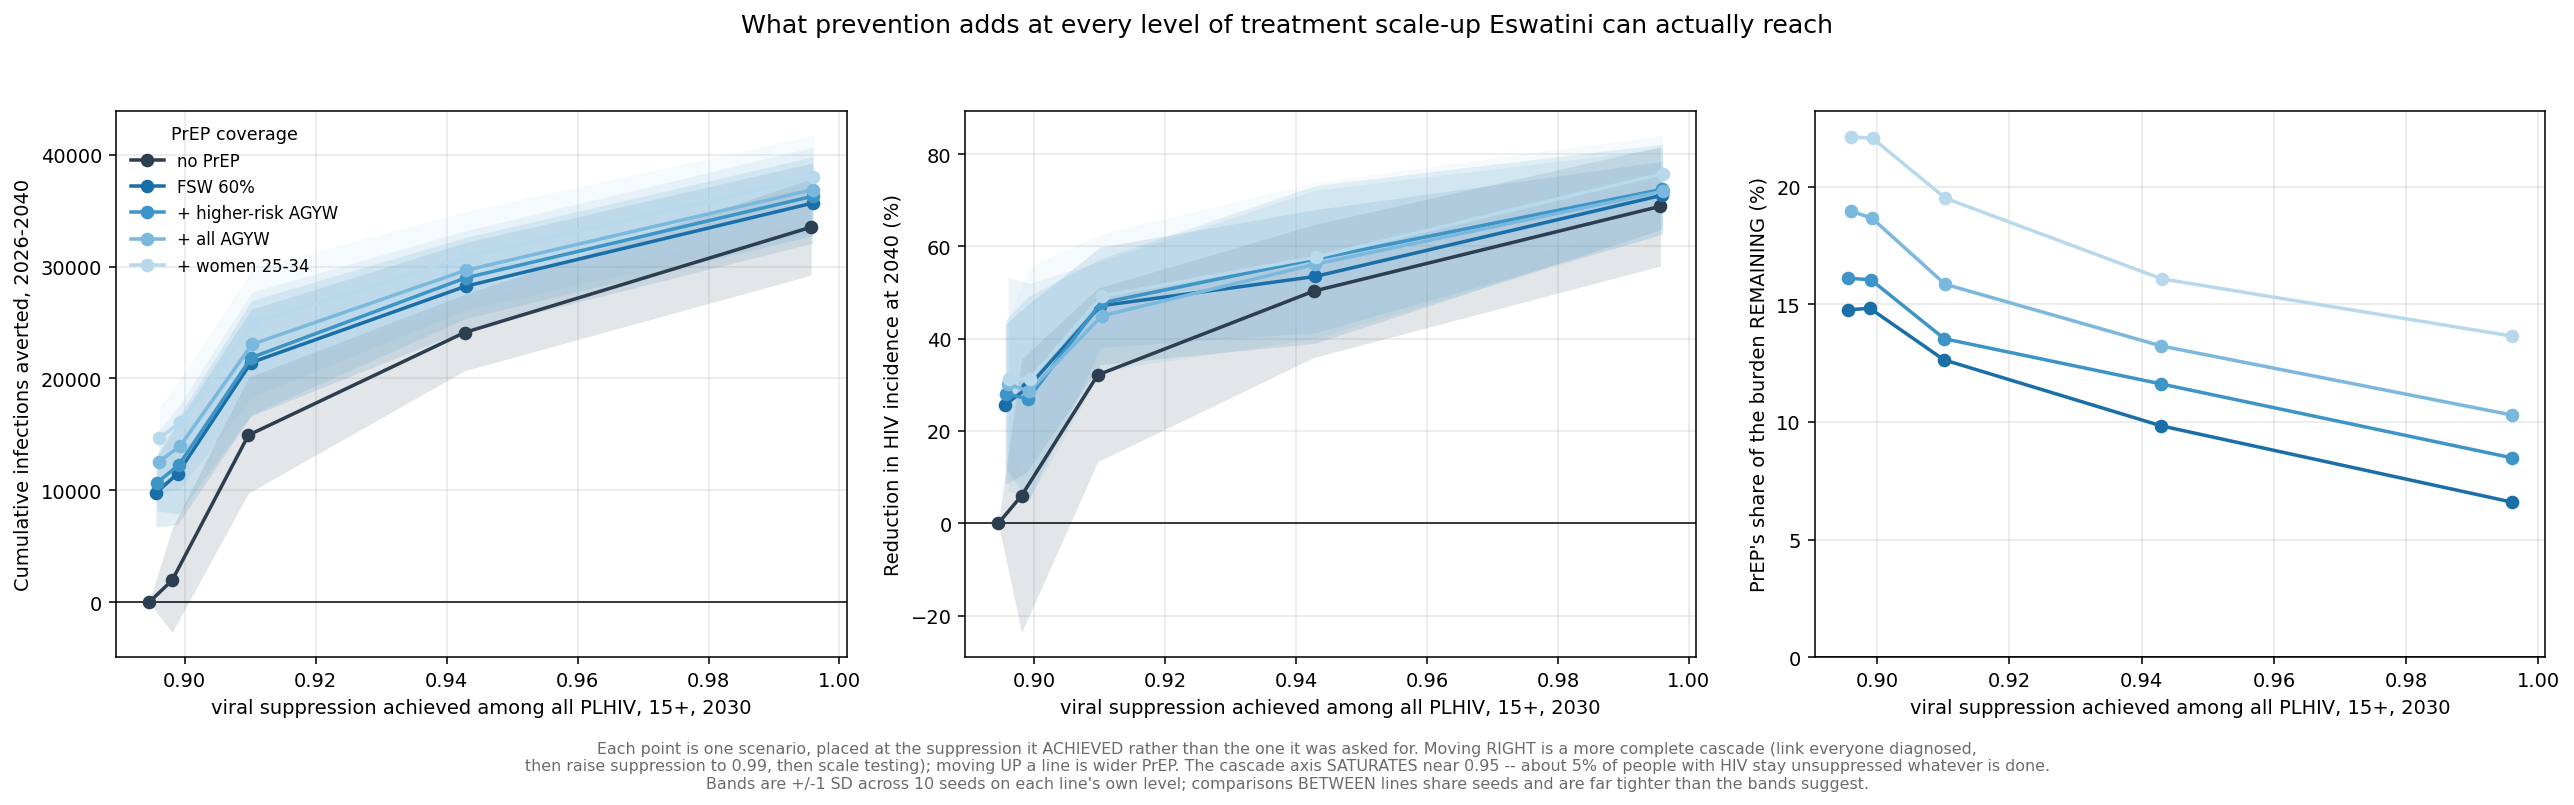
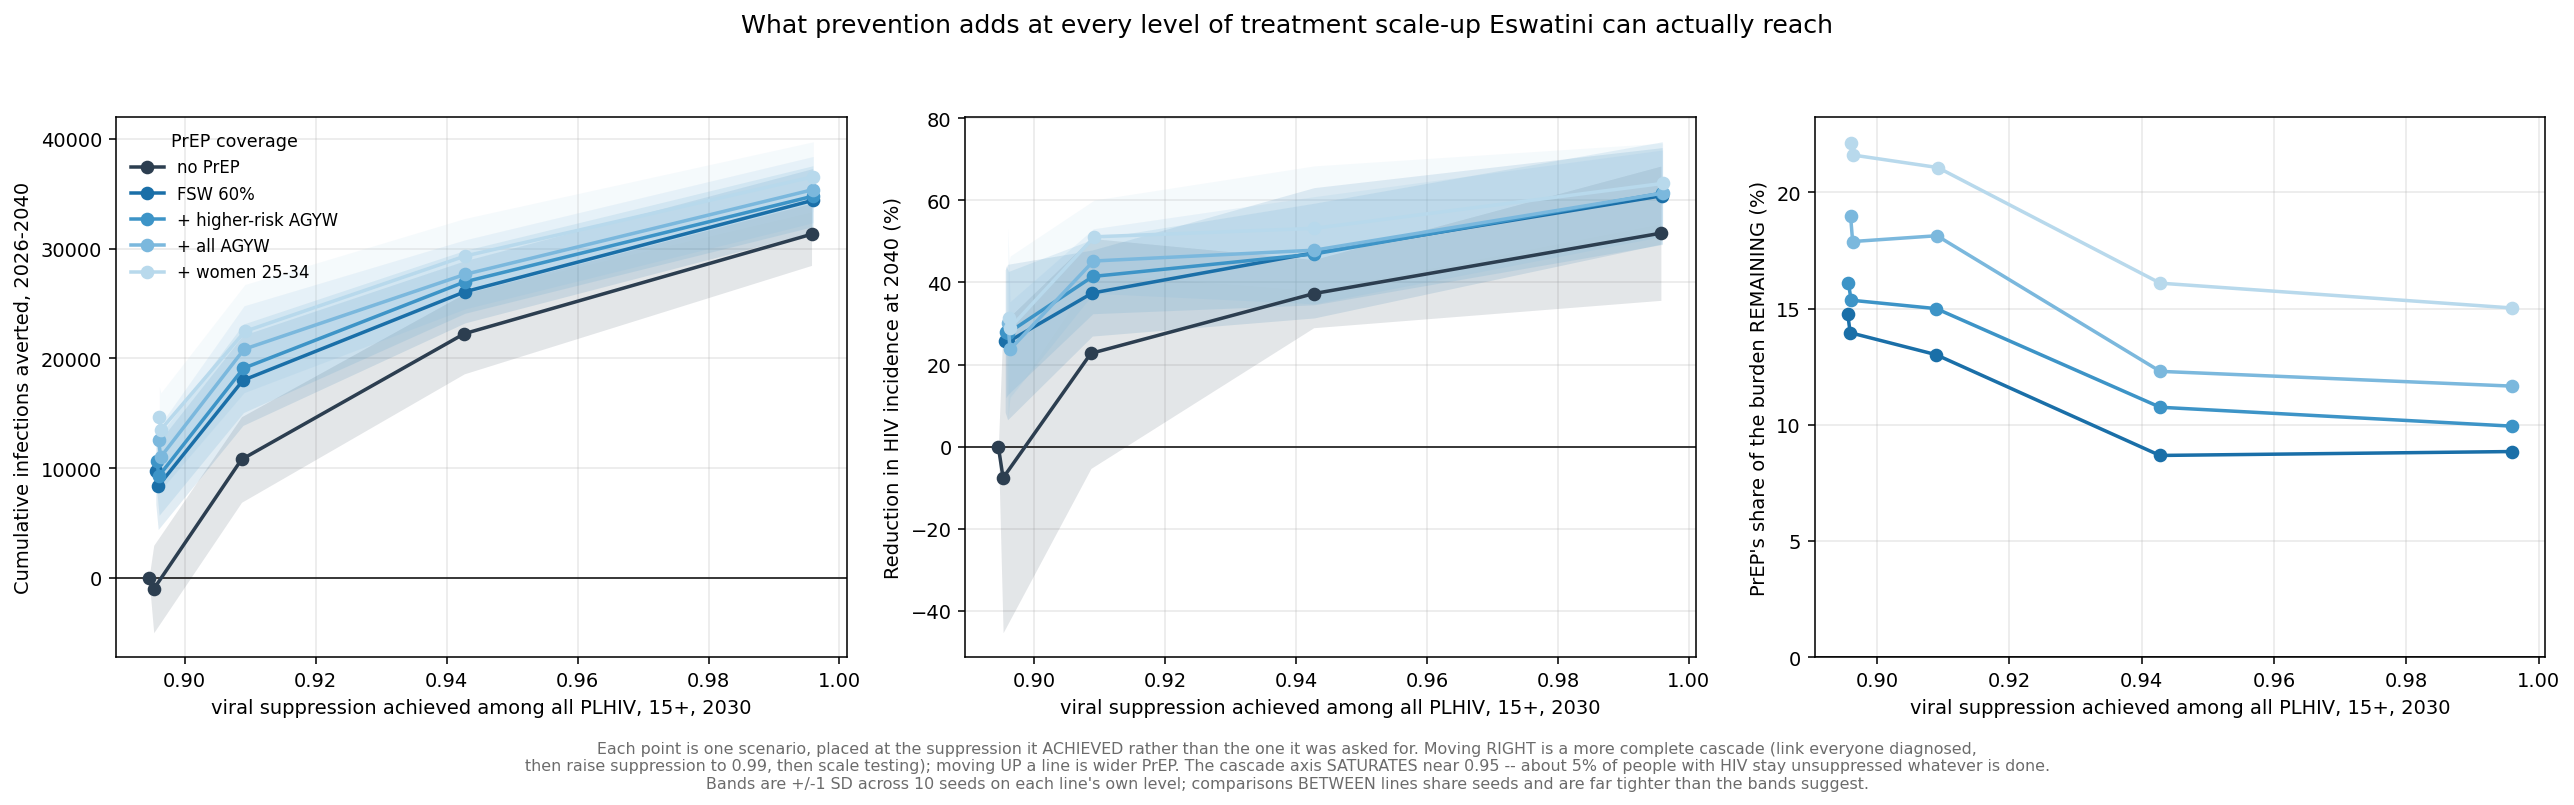
Exp 034: drop the theoretical bound, name S3 for what it achieves
The bound (ART 0.999 / VLS 0.999) was carried so plausible rungs could be
read against a limiting case. Exp 033 already establishes it, nobody
could pursue it, and keeping it in a table of scenarios invited it being
read as one.

'best-in-class' asserted a comparison to other programmes this
experiment does not make. Renamed to 99-96-98, which is the cascade it
actually achieves: 99.8% aware, 96.3% on ART given aware, 98.0%
suppressed.

diff --git a/experiments/034_plausible_scenarios/analyse.py b/experiments/034_plausible_scenarios/analyse.py
@@ -43,8 +43,7 @@ REF_031_BASELINE = 66178      # 031/032's baseline, for the stop check
 CASC_LAB = {"S0_status_quo": "status quo",
             "S1_testing_only": "testing x3 only",
             "S2_unaids_95": "95-95-95 every group",
-            "S3_best_in_class": "best-in-class",
-            "S4_bound": "BOUND (not a scenario)"}
+            "S3_99_96_98": "99-96-98 every group"}
 PREP_LAB = {"P0_none": "no PrEP", "P1_fsw": "FSW 60%",
             "P2_agyw_risk": "+ higher-risk AGYW", "P3_agyw_all": "+ all AGYW",
             "P4_women_25_34": "+ women 25-34"}
@@ -436,9 +435,6 @@ def fig_prep_by_counterfactual(grid, per_seed):
         # The bound is not a scenario; shade it out rather than dropping it, so
         # the plausible rungs can be read against it without being confused for
         # it.
-        if "S4_bound" in xpos:
-            ax.axvspan(xpos["S4_bound"] - 0.5, xpos["S4_bound"] + 0.5,
-                       color="#eceff1", zorder=0)
         for p in preps:
             g = grid[grid.prep == p].copy()
             g["x"] = g.cascade.map(xpos)
@@ -541,9 +537,6 @@ def fig_attribution(attr, baseline_total):
     cascs = [c for c in CASC_LAB if c != "S0_status_quo"]
     width, gap = 0.26, 0.02
     fig, ax = plt.subplots(figsize=(14, 6.8))
-    if "S4_bound" in cascs:
-        i = cascs.index("S4_bound")
-        ax.axvspan(i - 0.5, i + 0.5, color="#eceff1", zorder=0)
     for j, p in enumerate(show_prep):
         xs = [i + (j - 1) * (width + gap) for i in range(len(cascs))]
         for x, c in zip(xs, cascs):
@@ -589,8 +582,7 @@ def fig_attribution(attr, baseline_total):
              "ALL baseline infections, not of those averted, so the grey block "
              "is what neither lever prevents.\nThe two levers overlap, so the "
              "split uses Shapley attribution, which shares that overlap evenly "
-             "and does not depend on which is counted first. The shaded rung is "
-             "a BOUND, not a scenario.",
+             "and does not depend on which is counted first.",
              ha="center", fontsize=8.2, color=MUTED)
     fig.tight_layout(rect=[0, 0.02, 1, 1])
     fig.savefig(FIG / "attribution.png", dpi=140, bbox_inches="tight")
@@ -634,8 +626,6 @@ def fig_viremia(d):
         m, sd = g.mean(), g.std(ddof=1).fillna(0)
         w = (m.index >= 2020) & (m.index <= 2040)
         style = dict(lw=2.4, color=cols[c])
-        if c == "S4_bound":
-            style.update(ls="--", lw=1.8)
         ax.plot(m.index[w], m.values[w],
                 label=CASC_LAB[c].replace("\n", " "), zorder=3, **style)
         ax.fill_between(m.index[w], (m - sd).values[w], (m + sd).values[w],

diff --git a/experiments/034_plausible_scenarios/run.py b/experiments/034_plausible_scenarios/run.py
@@ -133,9 +133,11 @@ CASCADE = {
     "S0_status_quo":     (None,   None,  1.0),
     "S1_testing_only":   (None,   None,  3.0),
     "S2_unaids_95":      (0.9025, None,  3.0),
-    "S3_best_in_class":  (0.96,   0.98,  4.0),
-    "S4_bound":          (0.999,  0.999, 4.0),   # NOT a scenario. A bound.
+    "S3_99_96_98":       (0.96,   0.98,  4.0),
 }
+# The theoretical bound (ART 0.999 / VLS 0.999) lived here as S4 and has been
+# removed: exp 033 already established it, it is not a scenario anybody could
+# pursue, and carrying it invited it being read as one.
 
 # --- the PrEP axis (y) ---------------------------------------------------------
 # Nested and DISJOINT. scenarios.agyw() is `female & 15-24` and does NOT exclude
@@ -267,7 +269,7 @@ def main():
     cascades, preps = list(CASCADE), list(PREP_RUNGS)
     seeds = list(range(1, a.n_seeds + 1))
     if a.smoke:
-        cascades = ["S0_status_quo", "S4_bound"]
+        cascades = ["S0_status_quo", "S3_99_96_98"]
         preps = ["P0_none", "P4_women_25_34"]
         seeds = [1]
 
